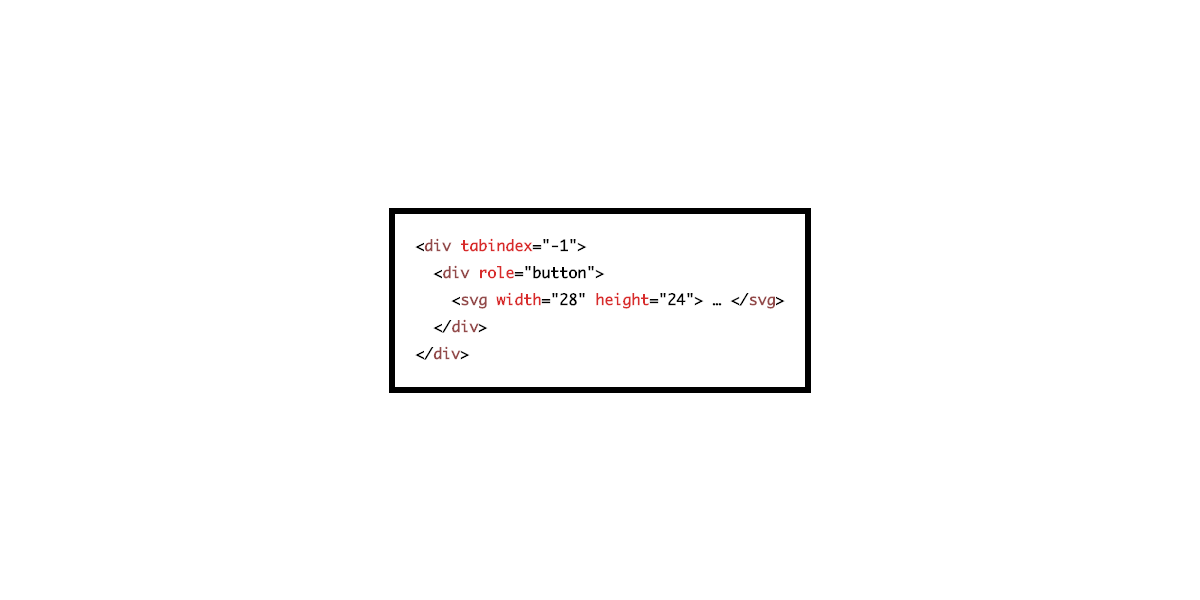
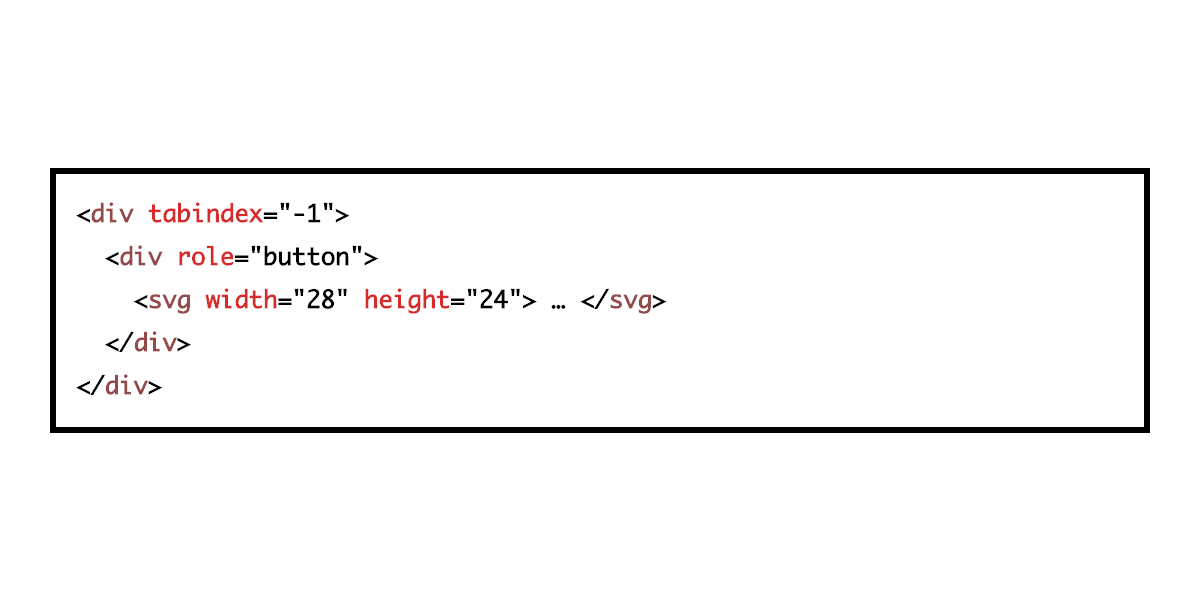
Increase font size in screenshots

Changed region(s): [[0.0308, 0.27, 0.9558, 0.72], [0.0925, 0.33, 0.6783, 0.66]]

diff --git a/hell/assets/min/style.min.css b/hell/assets/min/style.min.css
@@ -1,2 +1,2 @@
 code[class*=language-],pre[class*=language-]{color:#000;background:0 0;font-family:Consolas,Monaco,'Andale Mono','Ubuntu Mono',monospace;text-align:left;white-space:pre;word-spacing:normal;word-break:normal;word-wrap:normal;line-height:1.8;-moz-tab-size:4;-o-tab-size:4;tab-size:4;-webkit-hyphens:none;-moz-hyphens:none;-ms-hyphens:none;hyphens:none}pre[class*=language-]{padding:1em;margin:.5em 0;overflow:auto;border-radius:0;border:6px solid #000}:not(pre)>code[class*=language-],pre[class*=language-]{background:#fff;font-size:1.7rem;font-weight:700}:not(pre)>code[class*=language-]{padding:.1em;border-radius:0;white-space:normal}.token.cdata,.token.comment,.token.doctype,.token.prolog{color:#737373}.token.punctuation{color:#000}.token.constant,.token.deleted,.token.property,.token.symbol,.token.tag{color:#924a4a}.token.boolean,.token.number{color:#00e0e0}.token.attr-name,.token.builtin,.token.char,.token.inserted,.token.selector,.token.string{color:#d72b2b}.language-css .token.string,.style .token.string,.token.entity,.token.operator,.token.url,.token.variable{color:#00e0e0}.token.atrule,.token.attr-value,.token.function{color:#000}.token.keyword{color:#00e0e0}.token.important,.token.regex{color:gold}.token.bold,.token.important{font-weight:700}.token.italic{font-style:italic}.token.entity{cursor:help}@media screen and (-ms-high-contrast:active){code[class*=language-],pre[class*=language-]{color:windowText;background:window}:not(pre)>code[class*=language-],pre[class*=language-]{background:window}.token.important{background:highlight;color:window;font-weight:400}.token.atrule,.token.attr-value,.token.function,.token.keyword,.token.operator,.token.selector{font-weight:700}.token.attr-value,.token.comment,.token.doctype,.token.function,.token.keyword,.token.operator,.token.property,.token.string{color:highlight}.token.attr-value,.token.url{font-weight:400}}code{background:#000;color:#fff;padding:.1rem .3rem .3rem;border-radius:.2rem;display:inline-block;font-family:Consolas,Monaco,'Andale Mono','Ubuntu Mono',monospace;line-height:1;font-size:1.5rem}
-*{box-sizing:border-box}html{font-size:62.5%}body{font-size:1.6rem;font-family:sans-serif;line-height:1.6;max-width:104rem;margin:0 auto;background-color:#fff}@media (min-width:768px){body{font-size:1.9rem;line-height:1.8}}h1{color:#d72b2b;margin-top:0;font-size:2.8rem;line-height:1.2}@media (min-width:768px){h1{font-size:3.5rem}}h2{margin:0 0 1.6rem}ol[class],ul[class]{padding:0;margin:0;list-style:none}ol{padding-left:2rem}@media (min-width:768px){ol{padding-left:4rem}}li{margin-bottom:1.6rem}p{margin:0 0 2.4rem}a:link{color:#d72b2b}a:visited{color:#a83636}a:hover{text-decoration:none}:focus{outline:5px solid #a83636}.u-hidden{position:absolute;white-space:nowrap;width:1px;height:1px;overflow:hidden;border:0;padding:0;clip:rect(0 0 0 0);clip-path:inset(50%);margin:-1px}.site-header{padding-top:3rem;padding-bottom:3rem;position:relative}@media (min-width:768px){.site-header{padding-top:6rem;padding-bottom:4rem}}.site-intro{font-size:2.2rem;text-align:center;font-weight:700;line-height:1.5;max-width:36ch;margin-left:auto;margin-right:auto}@media (min-width:768px){.site-intro{margin-bottom:4.8rem}}.site-rss{position:absolute;right:2rem;top:2rem}@media (min-width:768px){.site-rss{top:6rem}}.site-logo-link{transform:translateX(-50%) rotate(360deg);position:relative;left:50%;display:inline-block}.site-logo{display:none}@supports(display:grid){.site-logo{display:block}}.site-logo__666{transition:opacity .3s ease-in,fill .6s ease-in;fill:#d72b2b;opacity:0}.site--loaded .site-logo__1{opacity:1;transition-delay:.3s;fill:#000}.site--loaded .site-logo__2{opacity:1;transition-delay:.5s;fill:#000}.site--loaded .site-logo__3{opacity:1;transition-delay:.7s;fill:#000}.site--loaded .site-logo__4{opacity:1;transition-delay:.9s;fill:#000}.site--loaded .site-logo__5{opacity:1;transition-delay:1.3s}.site-logo:hover polygon{fill:#d72b2b}@media (min-width:768px){.site-logo{height:30.4rem}}.site-content{padding:0 2rem;max-width:100rem;margin:0 auto;position:relative;display:block}@media (min-width:768px){.site-content{padding-left:13rem;padding-right:13rem}}.preview{margin-bottom:5.7rem}.preview__header{margin-bottom:2.4rem}.preview__heading{margin-bottom:0;line-height:1.5}.site-footer{margin:4.8rem 2rem 2rem;max-width:74rem}@media (min-width:768px){.site-footer{margin-left:auto;margin-right:auto}}.section{margin-bottom:3.2rem}@media (min-width:768px){.section{margin-bottom:4.6rem}}.screenshot{height:100%;display:flex;justify-content:center;align-items:center}.screenshot .section:not(.bad),.screenshot footer,.screenshot h1,.screenshot h2,.screenshot header{display:none}.screenshot pre[class*=language-]{white-space:normal!important}.screenshot .bad{margin-bottom:0}.screenshot .site-content{padding:0}
+*{box-sizing:border-box}html{font-size:62.5%}body{font-size:1.6rem;font-family:sans-serif;line-height:1.6;max-width:104rem;margin:0 auto;background-color:#fff}@media (min-width:768px){body{font-size:1.9rem;line-height:1.8}}h1{color:#d72b2b;margin-top:0;font-size:2.8rem;line-height:1.2}@media (min-width:768px){h1{font-size:3.5rem}}h2{margin:0 0 1.6rem}ol[class],ul[class]{padding:0;margin:0;list-style:none}ol{padding-left:2rem}@media (min-width:768px){ol{padding-left:4rem}}li{margin-bottom:1.6rem}p{margin:0 0 2.4rem}a:link{color:#d72b2b}a:visited{color:#a83636}a:hover{text-decoration:none}:focus{outline:5px solid #a83636}.u-hidden{position:absolute;white-space:nowrap;width:1px;height:1px;overflow:hidden;border:0;padding:0;clip:rect(0 0 0 0);clip-path:inset(50%);margin:-1px}.site-header{padding-top:3rem;padding-bottom:3rem;position:relative}@media (min-width:768px){.site-header{padding-top:6rem;padding-bottom:4rem}}.site-intro{font-size:2.2rem;text-align:center;font-weight:700;line-height:1.5;max-width:36ch;margin-left:auto;margin-right:auto}@media (min-width:768px){.site-intro{margin-bottom:4.8rem}}.site-rss{position:absolute;right:2rem;top:2rem}@media (min-width:768px){.site-rss{top:6rem}}.site-logo-link{transform:translateX(-50%) rotate(360deg);position:relative;left:50%;display:inline-block}.site-logo{display:none}@supports(display:grid){.site-logo{display:block}}.site-logo__666{transition:opacity .3s ease-in,fill .6s ease-in;fill:#d72b2b;opacity:0}.site--loaded .site-logo__1{opacity:1;transition-delay:.3s;fill:#000}.site--loaded .site-logo__2{opacity:1;transition-delay:.5s;fill:#000}.site--loaded .site-logo__3{opacity:1;transition-delay:.7s;fill:#000}.site--loaded .site-logo__4{opacity:1;transition-delay:.9s;fill:#000}.site--loaded .site-logo__5{opacity:1;transition-delay:1.3s}.site-logo:hover polygon{fill:#d72b2b}@media (min-width:768px){.site-logo{height:30.4rem}}.site-content{padding:0 2rem;max-width:100rem;margin:0 auto;position:relative;display:block}@media (min-width:768px){.site-content{padding-left:13rem;padding-right:13rem}}.preview{margin-bottom:5.7rem}.preview__header{margin-bottom:2.4rem}.preview__heading{margin-bottom:0;line-height:1.5}.site-footer{margin:4.8rem 2rem 2rem;max-width:74rem}@media (min-width:768px){.site-footer{margin-left:auto;margin-right:auto}}.section{margin-bottom:3.2rem}@media (min-width:768px){.section{margin-bottom:4.6rem}}.screenshot{height:100%;display:flex;justify-content:center;align-items:center}.screenshot body{width:100%;max-width:110rem}.screenshot .section:not(.bad),.screenshot footer,.screenshot h1,.screenshot h2,.screenshot header{display:none}.screenshot pre[class*=language-]{white-space:normal!important}.screenshot .bad{margin-bottom:0}.screenshot .site-content{padding:0;max-width:100%}.screenshot code{font-size:2.4rem}

diff --git a/hell/assets/style.css b/hell/assets/style.css
@@ -271,6 +271,12 @@ a:hover {
   justify-content: center;
   align-items: center;
 }
+
+.screenshot body {
+  width: 100%;
+  max-width: 110rem;
+}
+
 .screenshot h1,
 .screenshot h2,
 .screenshot .section:not(.bad),
@@ -289,4 +295,9 @@ a:hover {
 
 .screenshot .site-content {
   padding: 0;
+  max-width: 100%;
+}
+
+.screenshot code {
+  font-size: 2.4rem;
 }
